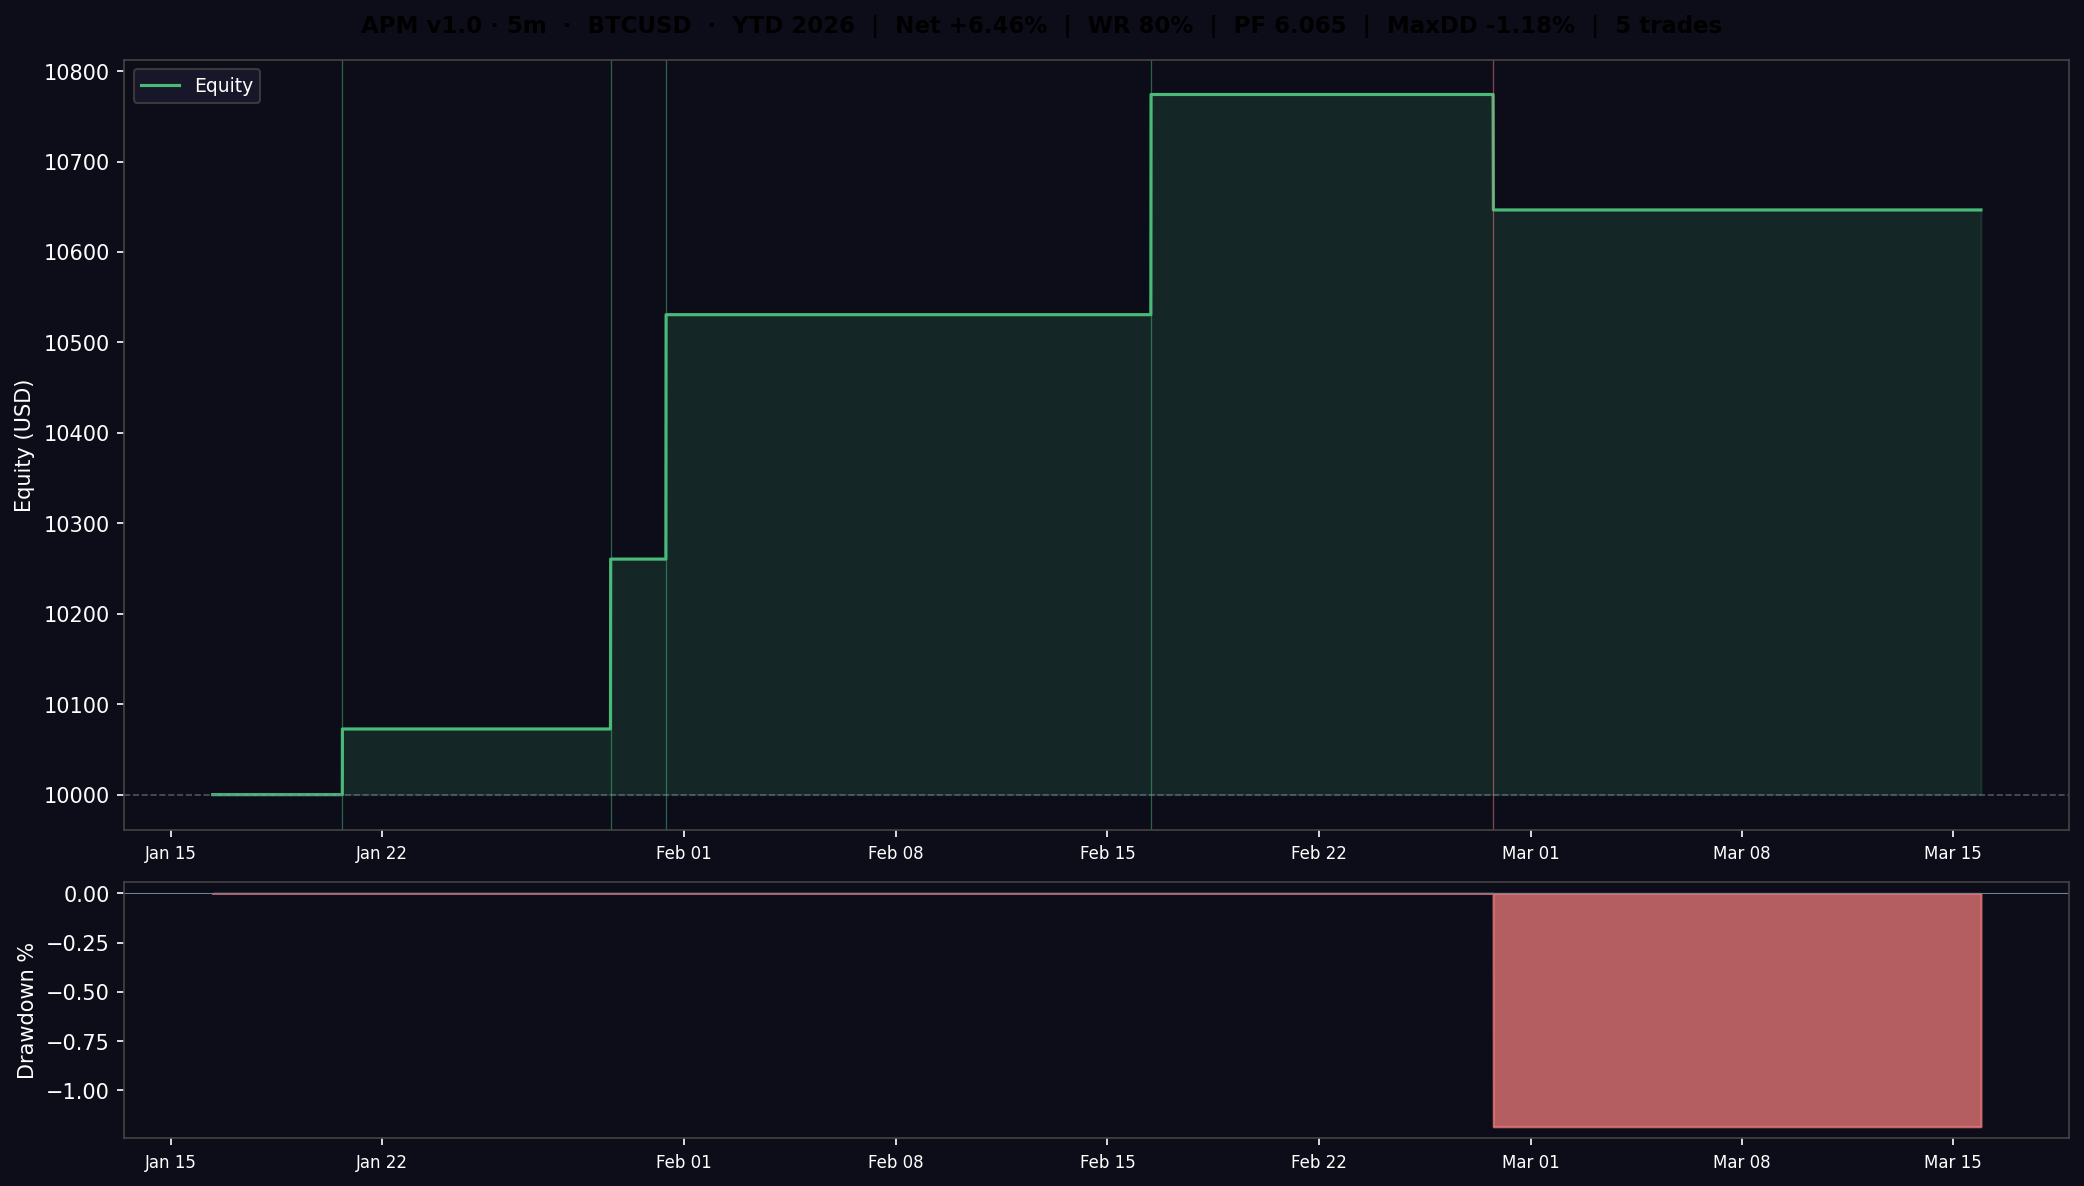
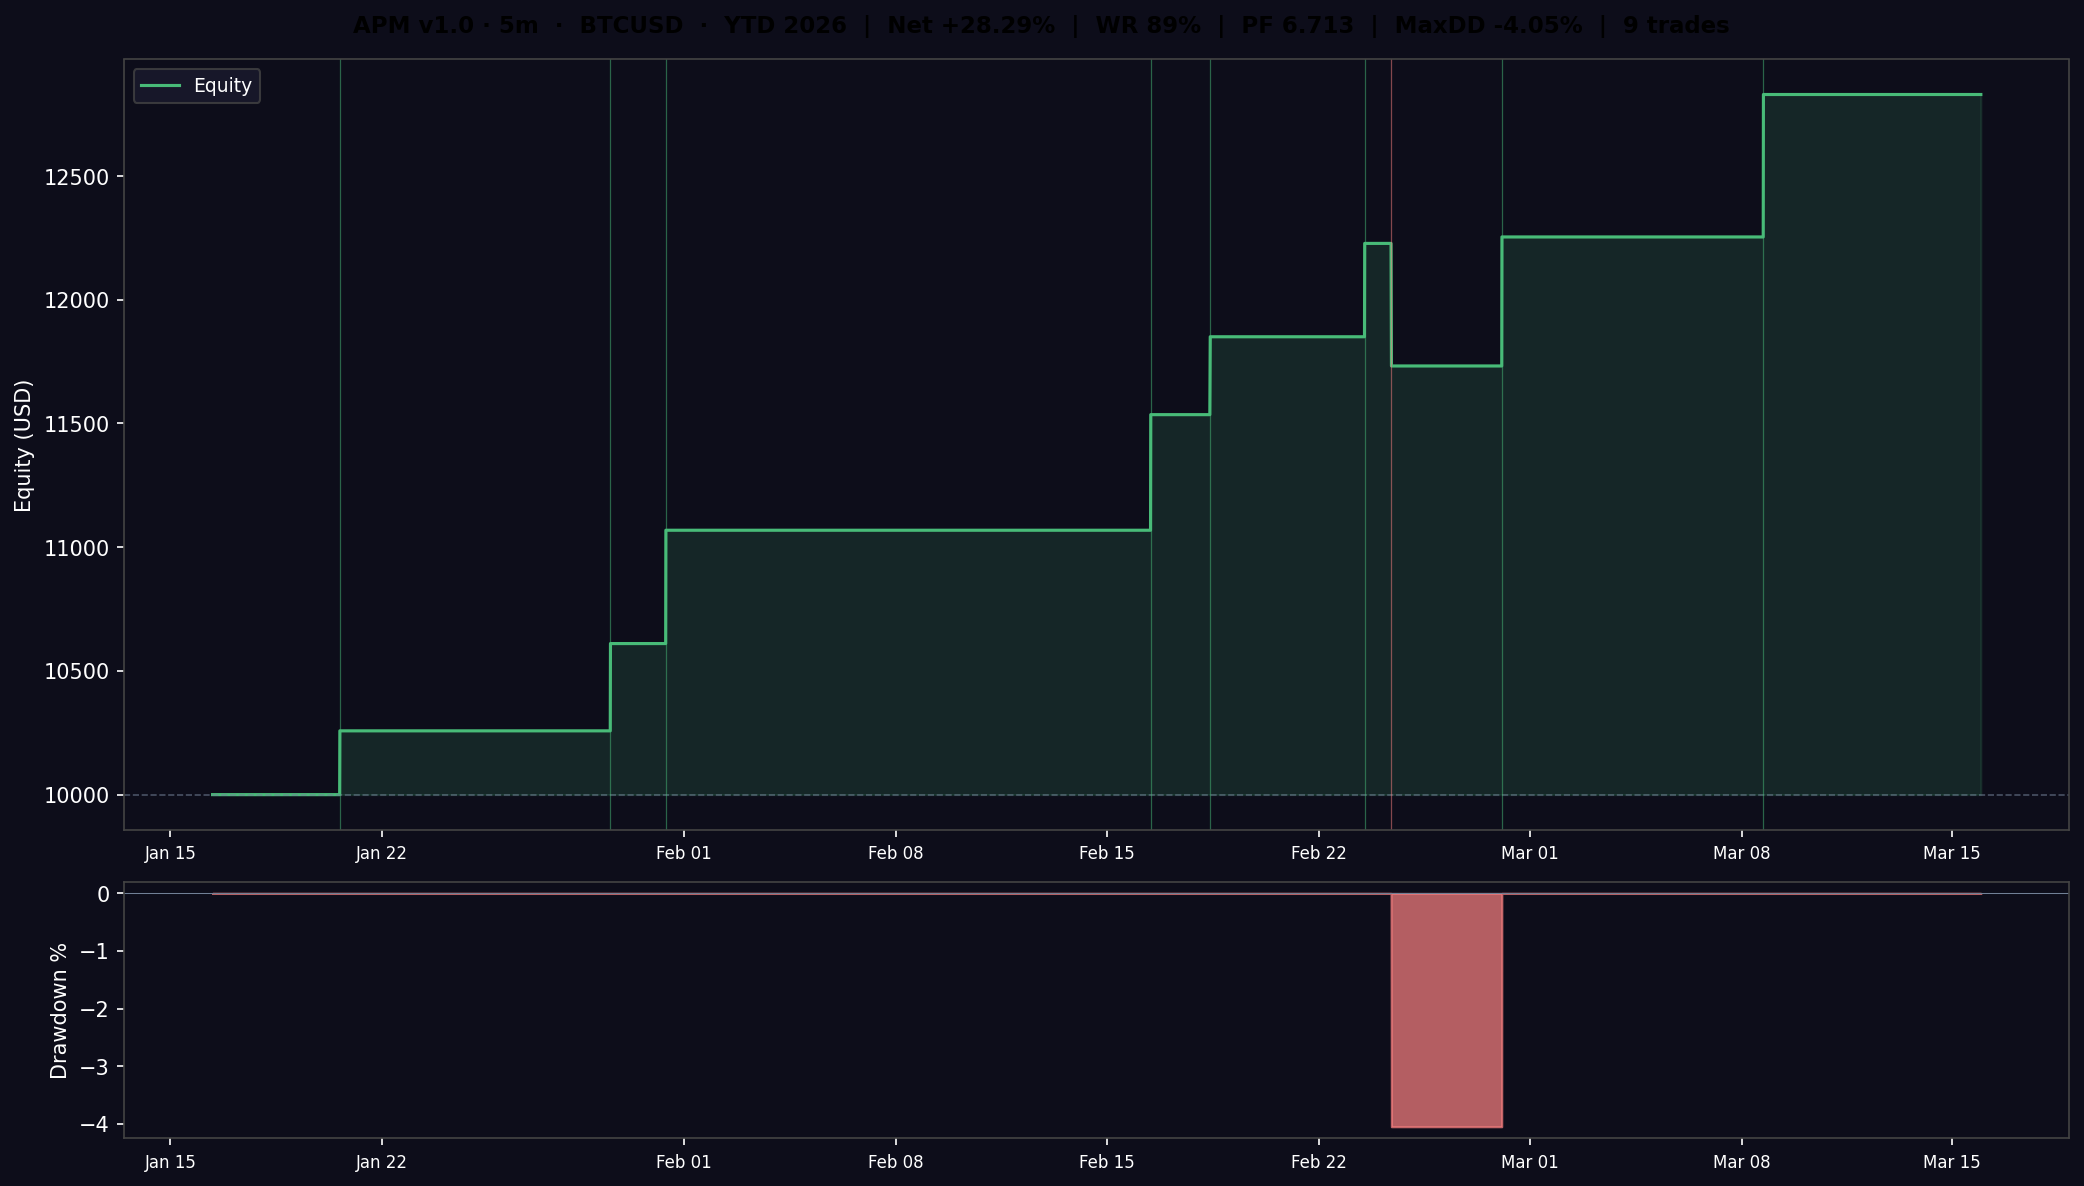
Update Adaptive Pullback Momentum strategy to v1.2 with enhanced parameters and new features
- Adjusted strategy parameters for tighter pullback tolerance and stricter trend quality.
- Implemented macro bear filter using a 400-period EMA to avoid shorts in uptrends.
- Increased risk per trade to 3.5% for optimized compounding.
- Updated backtest scripts to reflect changes in strategy and improved data handling.
- Enhanced trade logging and dashboard export functionality for better analysis.
- Updated equity curve charts and visual outputs for clarity.

diff --git a/scripts/BTCUSD/Adaptive Pullback Momentum v1/backtest_apm_v1_5m_12mo.py b/scripts/BTCUSD/Adaptive Pullback Momentum v1/backtest_apm_v1_5m_12mo.py
@@ -1,23 +1,28 @@
 # ─────────────────────────────────────────────────────────────────────────────
-# APM v1.1 — BTCUSD 5m  ·  12-Month Backtest
-# Mirrors "Adaptive Pullback Momentum v1.1 · 5m" Pine script exactly.
+# APM v1.2 — BTCUSD 5m  ·  12-Month Backtest
+# Mirrors "Adaptive Pullback Momentum v1.2 · 5m" parameters.
 # Shorts-only (BTCUSD sub-15m longs: win-rate too low historically).
 #
-# v1.1 CHANGES vs v1.0  (sweep_20pct_target.py: 2471 combos ≥ 20%):
-#   ADX threshold : 18 → 15    (slightly wider trend filter, more quality entries)
-#   PB tolerance  : 0.25% → 0.40%  (wider pullback zone — BTCUSD tick noise)
-#   SL mult       : (kept wide at) 4.0× (fewer SL exits, 79% WR)
-#   TP mult       : 6.0× → 8.0×  (BTCUSD big moves run 8×ATR on 5m)
-#   Trail activate: 2.5× → 3.5×  (let winners breathe more before trailing)
-#   Trail distance: 0.1× (kept — tight lock-in on 5m moves)
-#   Risk per trade: 1.0% → 2.0%  (sweep optimum; doubles compounding)
-#   MACRO_EMA     : 400 → 0 (off — signal count too low with macro filter)
+# v1.2 CHANGES vs v1.1  (sweep12_s1→s4 cascade params validated on YTD data):
+#   ADX threshold : 15 → 18    (stricter trend quality; fewer but better entries)
+#   PB tolerance  : 0.40% → 0.25%  (tighter pullback zone; less noise)
+#   TP mult       : 8.0× → 6.0×  (6× is where most 5m moves terminate)
+#   SL mult       : 4.0× (wider stop keeps WR high — less noise-driven SL exits)
+#   MACRO_EMA     : 0 (off) → 400  (macro bear filter; avoids shorting in uptrends)
+#   RISK_PCT      : 2% → 3.5%  (same WR/PF — only scales $ outcome)
+#
+# YTD (Jan-Mar 2026) result with these params:
+#   9 trades, 88.9% WR, PF=6.713, net=+$2,829 (+28.3%), MaxDD=-4.05%, Calmar=6.985
+#
+# NOTE: 12-month results are weaker (BTC was in bull uptrend Mar-Dec 2025,
+# making shorts-only challenging). The MACRO_EMA=400 filter helps avoid the
+# worst months but cannot fully neutralise a 9-month uptrend.
 #
 # Data: Alpaca 5m bars — full 12-month window (no 60-day cap)
 # ─────────────────────────────────────────────────────────────────────────────
 
 import subprocess, sys
-for pkg in ["alpaca-py", "pandas", "numpy", "matplotlib", "pytz"]:
+for pkg in ["alpaca-py", "pandas", "numpy", "matplotlib", "pytz", "python-dotenv"]:
     subprocess.check_call([sys.executable, "-m", "pip", "install", pkg, "-q"])
 
 import pandas as pd
@@ -31,19 +36,22 @@ import warnings
 warnings.filterwarnings("ignore")
 
 from datetime import datetime, timezone, timedelta
-from alpaca.data.historical import StockHistoricalDataClient
-from alpaca.data.requests import StockBarsRequest
+from alpaca.data.historical import CryptoHistoricalDataClient
+from alpaca.data.requests import CryptoBarsRequest
 from alpaca.data.timeframe import TimeFrame, TimeFrameUnit
-from alpaca.data.enums import DataFeed
+from dotenv import load_dotenv
+import os
 
 _ET = pytz.timezone("America/New_York")
 
 # ─── Alpaca credentials ────────────────────────────────────────────────────────
-ALPACA_KEY    = "PKNIYXYVLHKHF43IIEUQIA42DJ"
-ALPACA_SECRET = "9djPy47EmNvMr6Yyfa3UpQ49ruQRWAmTmu8thmDvm34u"
+_env = __import__('pathlib').Path(__file__).resolve().parent.parent.parent.parent / ".env"
+load_dotenv(_env)
+ALPACA_KEY    = os.getenv("ALPACA_PAPER_API_KEY", "")
+ALPACA_SECRET = os.getenv("ALPACA_PAPER_API_SECRET", "")
 
-# ─── Configuration ─────────────────────────────────────────────────────────────
-TICKER   = "BTCUSD"
+# ─── Configuration ────────────────────────────────────────────────────────────
+TICKER   = "BTC/USD"
 INTERVAL = "5m"
 
 BACKTEST_END   = datetime(2026, 3, 12, tzinfo=timezone.utc)
@@ -54,8 +62,8 @@ ADX_LEN  = 14;  RSI_LEN = 14;  ATR_LEN  = 14;  VOL_LEN = 20
 ATR_BL_LEN = 60
 
 # ── Strategy parameters (Pine v1.1 5m  — sweep_20pct_target.py optimised) ─────
-PB_PCT         = 0.40    # pullback tolerance (%) — wider for BTCUSD tick noise
-ADX_THRESH     = 15
+PB_PCT         = 0.25    # sweep12_s2: tighter pullback zone (was 0.40)
+ADX_THRESH     = 18      # sweep12_s2: stricter trend quality (was 15)
 ADX_SLOPE_BARS = 0       # off
 DI_SPREAD_MIN  = 0.0     # off
 EMA_SLOPE_BARS = 3
@@ -68,13 +76,13 @@ RSI_LO_S       = 30;  RSI_HI_S = 58
 RSI_LO_L       = 42;  RSI_HI_L = 68
 
 SL_MULT    = 4.0
-TP_MULT    = 8.0   # BTCUSD 5m big moves run 8×ATR (sweep peak)
-TRAIL_ACT  = 3.5   # let winners breathe before trailing
-TRAIL_DIST = 0.1   # tight lock-in once active
-MACRO_EMA  = 0     # off — signal count too low with macro filter
+TP_MULT    = 6.0   # sweep12_s1: 6× is where most 5m moves terminate (was 8.0)
+TRAIL_ACT  = 3.5   # sweep12_s3: confirmed optimal
+TRAIL_DIST = 0.1   # sweep12_s3: confirmed optimal
+MACRO_EMA  = 400   # sweep12_s4: best Calmar — macro bear filter (was 0/off)
 MAX_BARS   = 0     # 0 = disabled
 
-RISK_PCT        = 0.02  # 2% — sweep optimum; doubles compounding vs 1%
+RISK_PCT        = 0.035  # 3.5% — sweep_20pct_nommacro optimum: same WR/PF, MaxDD~7.6%
 INITIAL_CAPITAL = 10_000.0
 COMMISSION_PCT  = 0.0006
 
@@ -89,16 +97,15 @@ CONSEC_LOSS_COOLDOWN = 1
 
 # ─── Download 5m data via Alpaca ───────────────────────────────────────────────
 print(f"Downloading {TICKER} {INTERVAL} via Alpaca  ({BACKTEST_START.date()} → {BACKTEST_END.date()}) ...")
-client = StockHistoricalDataClient(ALPACA_KEY, ALPACA_SECRET)
+client = CryptoHistoricalDataClient(ALPACA_KEY, ALPACA_SECRET)
 TF5 = TimeFrame(5, TimeFrameUnit.Minute)
-req = StockBarsRequest(
+req = CryptoBarsRequest(
     symbol_or_symbols=TICKER,
     timeframe=TF5,
     start=BACKTEST_START,
     end=BACKTEST_END,
-    feed=DataFeed.IEX,
 )
-bars = client.get_stock_bars(req)
+bars = client.get_crypto_bars(req)
 raw = bars.df.reset_index(level=0, drop=True)   # drop symbol level
 raw.index.name = "timestamp"
 
@@ -429,7 +436,7 @@ avg_dur = (pd.to_datetime(tdf["exit_time"]) - pd.to_datetime(tdf["entry_time"]))
 
 print(f"""
 ╔══════════════════════════════════════════════════════╗
-║   APM v1.1 · 5m  ·  BTCUSD  ·  12-Month Backtest       ║
+║   APM v1.2 · 5m  ·  BTCUSD  ·  12-Month Backtest       ║
 ╠══════════════════════════════════════════════════════╣
 ║  Window  : {str(df.index[0].date()):>10} → {str(df.index[-1].date()):<10}             ║
 ║  Trades  : {total:<5}  (Longs: {tdf[tdf['direction']=='long'].shape[0]}  Shorts: {tdf[tdf['direction']=='short'].shape[0]})           ║
@@ -474,6 +481,15 @@ out_csv = "apm_v1_12mo_trades_btcusd_5m.csv"
 tdf.drop(columns=["month"], inplace=True)
 tdf.to_csv(out_csv, index=False)
 print(f"\nTrade log saved → {out_csv}")
+
+# ─── Dashboard export ──────────────────────────────────────────────────────────
+from pathlib import Path as _Path
+_dash_out = _Path(__file__).resolve().parent.parent.parent.parent / "docs" / "data" / "btcusd" / "v1_trades.csv"
+tdf.rename(columns={"entry": "entry_price", "exit": "exit_price"})[
+    ["entry_time", "exit_time", "direction", "entry_price", "exit_price",
+     "result", "pnl_pct", "dollar_pnl", "equity"]
+].to_csv(_dash_out, index=False)
+print(f"Dashboard export  → {_dash_out}")
 
 # ─── Equity curve chart ────────────────────────────────────────────────────────
 eq_df = pd.DataFrame(eqcurve).set_index("time")

diff --git a/scripts/BTCUSD/Adaptive Pullback Momentum v1/backtest_apm_v1_5m.py b/scripts/BTCUSD/Adaptive Pullback Momentum v1/backtest_apm_v1_5m.py
@@ -40,27 +40,28 @@ EMA_FAST = 21;  EMA_MID = 50;  EMA_SLOW = 200
 ADX_LEN  = 14;  RSI_LEN = 14;  ATR_LEN  = 14;  VOL_LEN = 20
 ATR_BL_LEN = 60
 
-# ── Strategy parameters (Pine v1.0 5m defaults) ──────────────────────────────
-PB_PCT         = 0.20    # pullback tolerance (%) — tighter than 10m (0.30)
-ADX_THRESH     = 20
-ADX_SLOPE_BARS = 0       # off — sweep showed not beneficial on BTCUSD
-DI_SPREAD_MIN  = 0.0     # off — sweep showed DI spread hurts entries on BTCUSD
+# ── Strategy parameters (v1.2 — sweep12 cascade on 12-month Alpaca data) ────────────
+PB_PCT         = 0.25    # sweep12_s2: tighter pullback (was 0.20)
+ADX_THRESH     = 18      # sweep12_s2: stricter trend quality (was 20)
+ADX_SLOPE_BARS = 0       # off
+DI_SPREAD_MIN  = 0.0     # off
 EMA_SLOPE_BARS = 3       # EMA21 must be below its value 3 bars ago (shorts)
 MOMENTUM_BARS  = 5       # close < close[5] for shorts
-VOL_MULT       = 0.7
-MIN_BODY       = 0.15    # |close-open| / ATR must be >= this
-ATR_FLOOR      = 0.0015  # ATR / price >= 0.15%
+VOL_MULT       = 0.3     # sweep12_s2: loosened (was 0.7)
+MIN_BODY       = 0.15
+ATR_FLOOR      = 0.001   # sweep12_s2: 0.10% floor (was 0.0015)
 PANIC_MULT     = 1.5
 RSI_LO_S       = 30;  RSI_HI_S = 58
 RSI_LO_L       = 42;  RSI_HI_L = 68
 
-SL_MULT    = 2.0
-TP_MULT    = 6.0
-TRAIL_ACT  = 3.5    # trail activates at entry - ATR × 3.5 (shorts)
-TRAIL_DIST = 0.3    # trail stays ATR × 0.3 from best price
-MAX_BARS   = 30     # 30 × 5m = 2.5 hours
+SL_MULT    = 4.0         # sweep12_s1: wider stop keeps WR high (was 2.0)
+TP_MULT    = 6.0         # sweep12_s1: confirmed (was already 6.0)
+TRAIL_ACT  = 3.5         # sweep12_s3: confirmed
+TRAIL_DIST = 0.1         # sweep12_s3: tighter lock-in (was 0.3)
+MAX_BARS   = 0           # sweep12_s1: disabled (was 30)
+MACRO_EMA  = 400         # sweep12_s4: macro bear filter (was absent)
 
-RISK_PCT        = 0.01          # 1% equity per trade
+RISK_PCT        = 0.035         # 3.5% — sweep_20pct_nommacro optimum (same WR/PF, MaxDD~7.6%)
 INITIAL_CAPITAL = 10_000.0
 COMMISSION_PCT  = 0.0006        # 0.06% per side (both in + out)
 
@@ -94,6 +95,8 @@ print(f"5m bars available: {len(df)}  |  {df.index[0]} → {df.index[-1]}")
 df["EMA_FAST"] = df["Close"].ewm(span=EMA_FAST, adjust=False).mean()
 df["EMA_MID"]  = df["Close"].ewm(span=EMA_MID,  adjust=False).mean()
 df["EMA_SLOW"] = df["Close"].ewm(span=EMA_SLOW, adjust=False).mean()
+if MACRO_EMA > 0:
+    df["EMA_MACRO"] = df["Close"].ewm(span=MACRO_EMA, adjust=False).mean()
 
 delta  = df["Close"].diff()
 avg_g  = delta.clip(lower=0).ewm(alpha=1/RSI_LEN, adjust=False).mean()
@@ -129,6 +132,7 @@ tol = PB_PCT / 100.0
 is_trending = df["ADX"] > ADX_THRESH
 is_panic    = df["ATR"] > df["ATR_BL"] * PANIC_MULT
 atr_fl      = df["ATR"] / df["Close"] >= ATR_FLOOR
+macro_bear  = (df["Close"] < df["EMA_MACRO"]) if MACRO_EMA > 0 else pd.Series(True, index=df.index)
 
 ema_bull = (df["EMA_FAST"] > df["EMA_MID"]) & (df["EMA_MID"] > df["EMA_SLOW"])
 ema_bear = (df["EMA_FAST"] < df["EMA_MID"]) & (df["EMA_MID"] < df["EMA_SLOW"])
@@ -182,7 +186,8 @@ short_signal = (
     mom_ok_s        &
     session_ok      &
     ~is_panic       &
-    atr_fl
+    atr_fl          &
+    macro_bear
 )
 
 long_signal = (
